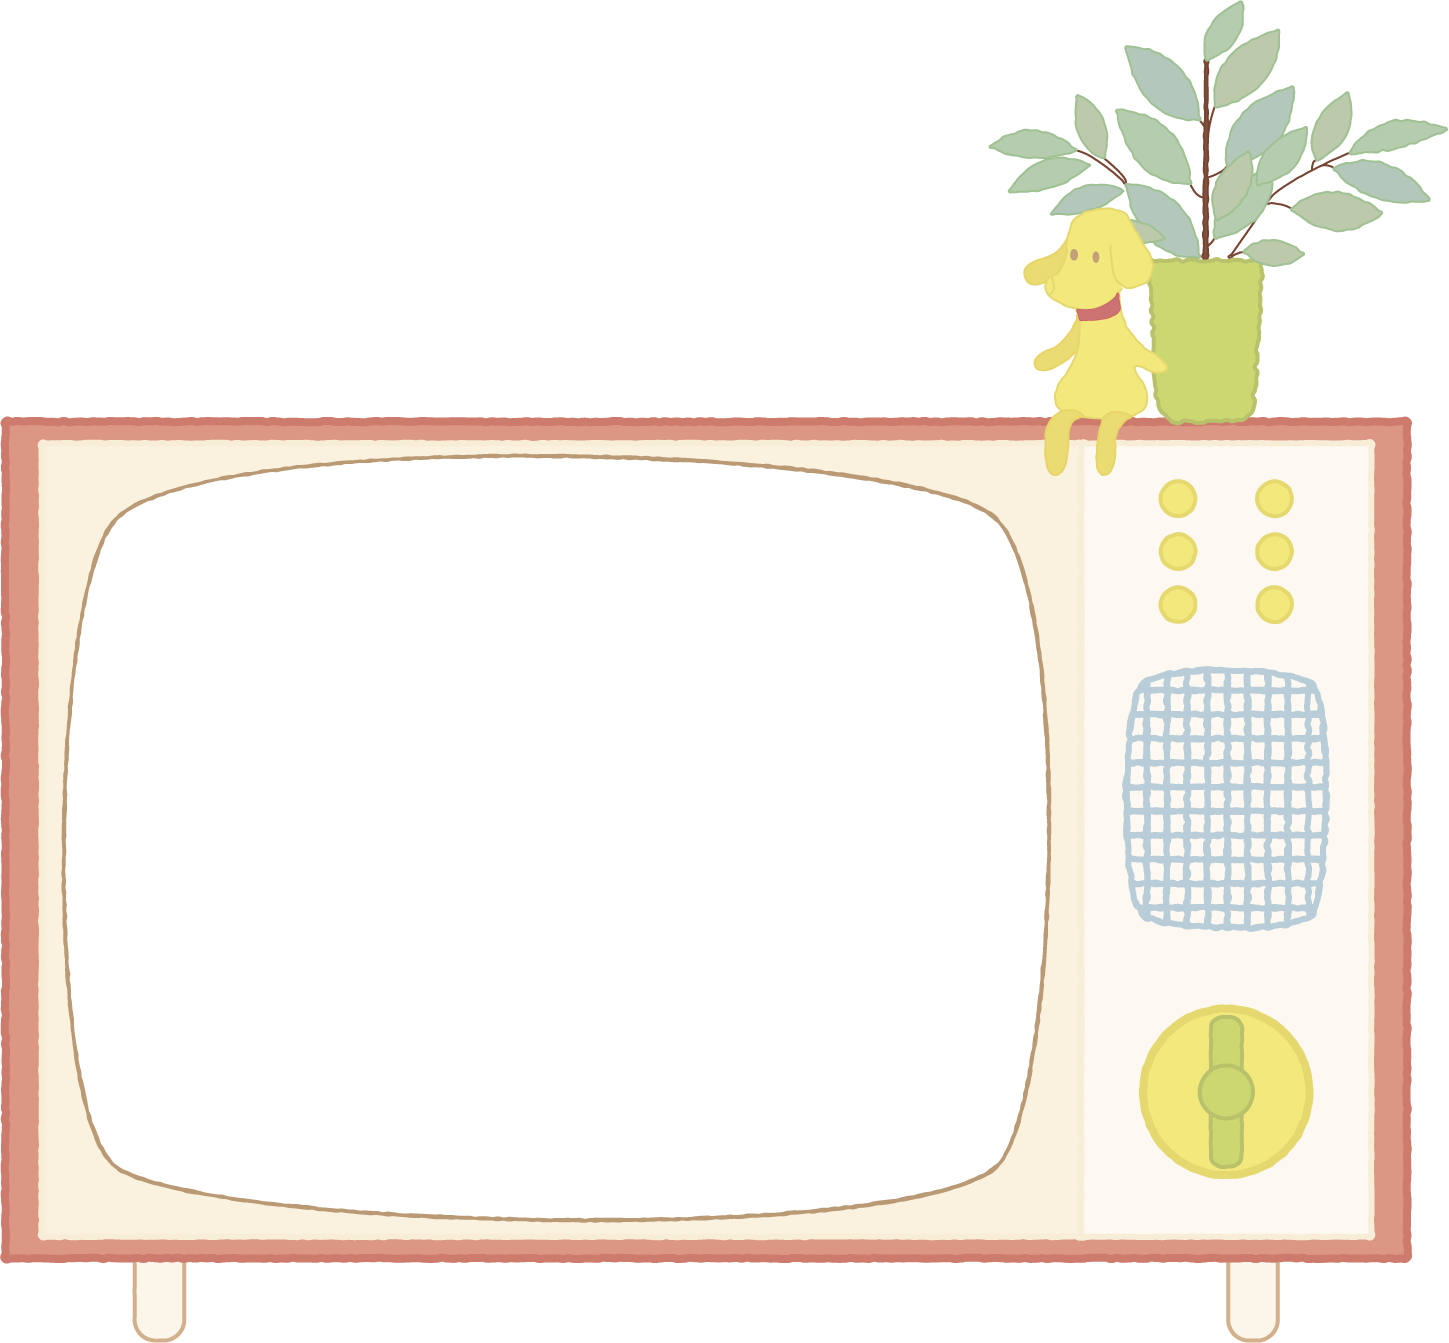
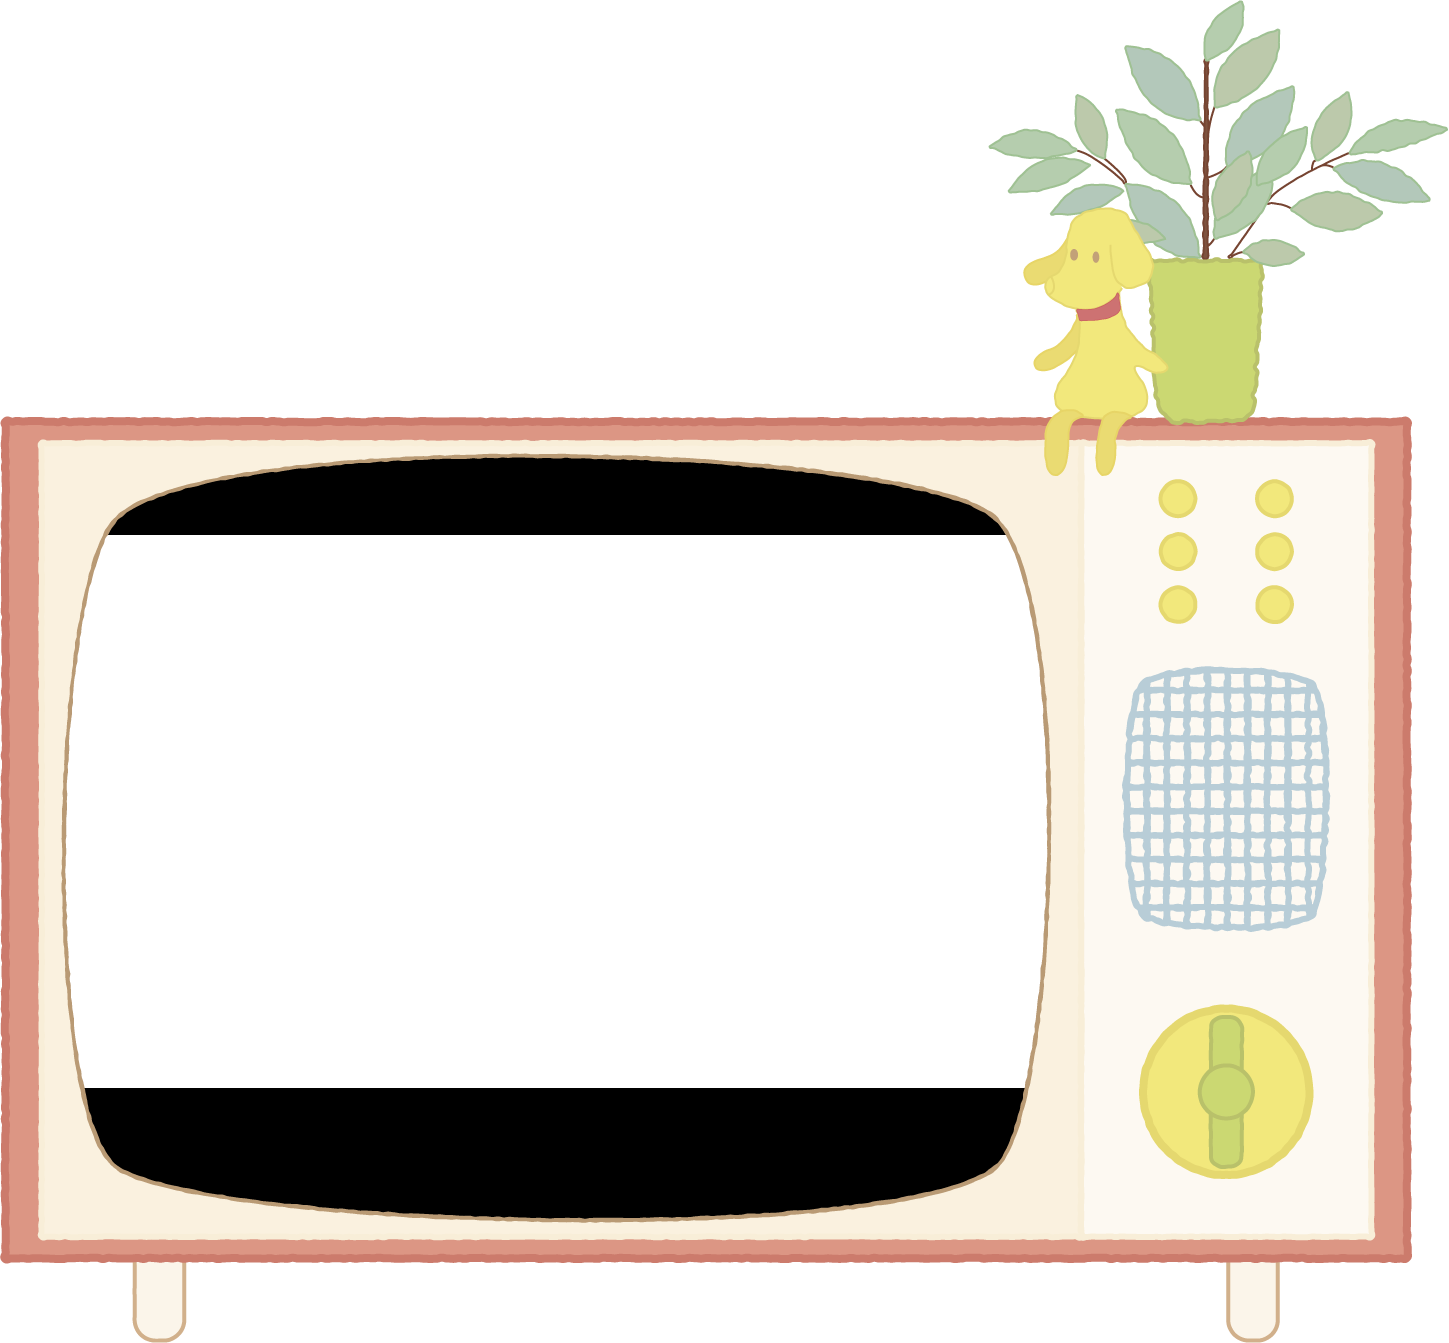
update

Changed region(s): [[0.0621, 0.7937, 0.7143, 0.9159], [0.0621, 0.3358, 0.6832, 0.3969]]

diff --git a/script/ElderlyObject.js b/script/ElderlyObject.js
@@ -51,7 +51,7 @@ class Tv extends Video {
         this.y = -0.049;
         this.url = "image/building/elderly/tv.png";
         this.zoomIn = 2.6;
-        this.zoomInPos = [83.4, -73.35]
+        this.zoomInPos = [83.4, -70]
         this.fadeText = "點擊播放影片";
         this.spriteHeight = 10;
         this.videoList = [function () { return new ElderlyAction_Hair(this.manager, this) }.bind(this)];
@@ -60,7 +60,7 @@ class Tv extends Video {
             frameUrl: "image/video/tv.png",
             frameScale: 0.5,
             uiHitArea: 79, uiScale: 0.25,
-            standard: -270, height: 235, space: 42
+            standard: -270, height: 230, space: 42
         }
     }
     onClickResize() {
@@ -105,7 +105,7 @@ class Tv extends Video {
         this.page.children.player.move(this._x, this.sprite.width);
         this.video = this.videoList[this.random]();
         this.video.setup();
-        this.video.container.position.set(-83, 73);
+        this.video.container.position.set(-83.5, 70);
         this.drawUI();
         this.fullButton.position.set(-this.uiOptions.standard - 160, this.uiOptions.height);
         if (!this.cancel) { this.drawCancel(); }

diff --git a/script/Action.js b/script/Action.js
@@ -491,10 +491,11 @@ export class ActionGoodjob extends ActionObject {
 }
 
 export class ActionStart extends ActionUI {
-    constructor(manager, action, text) {
+    constructor(manager, action, text, uiUrl = "image/video/actionUI_sprites.json") {
         super(manager, action);
         this.name = "ActionStart";
         this.isNotStart = true;
+        this.uiUrl = uiUrl;
         this.draw = function () {
             this.sprite = createSprite(
                 this.manager.resources["image/video/actionUI_sprites.json"].spritesheet.textures["know.png"]
@@ -529,7 +530,7 @@ export class ActionStart extends ActionUI {
                     this.action.removeChild(this.action.children.video.bg);
                     this.action.children.video.drawBg();
                     this.action.obj.playButton.texture =
-                        this.manager.resources["image/video/actionUI_sprites.json"].spritesheet.textures["pause.png"];
+                        this.manager.resources[this.uiUrl].spritesheet.textures["pause.png"];
                 }.bind(this)
             });
         }

diff --git a/script/KnowObject.js b/script/KnowObject.js
@@ -349,7 +349,6 @@ class Book extends linkObject {
     clickEvent() {
         this.blink.outerStrength = 0;
         this.sprite.interactive = false;
-        this.zoom();
         this.page.children.player.move(this._x, this.sprite.width);
         this.page.isZoomIn = true;
         this.isClick = true;
@@ -359,13 +358,7 @@ class Book extends linkObject {
         this.book = this.drawBook();
     }
     cancelEvent() {
-        /* let tl = gsap.timeline({
-            onComplete: function () {
-                this.sprite.interactive = true;
-            }.bind(this)
-        });
-        tl.to(this.page.container.scale, { duration: 0.5, x: this.scale, y: this.scale });
-        tl.to(this.page.container, { duration: 0.5, x: -this._x / 2, y: 0 }, 0); */
+        this.sprite.interactive = true;
         this.isClick = false;
         this.page.isZoomIn = false;
         this.cancel.visible = false;

diff --git a/script/ElderlyAction.js b/script/ElderlyAction.js
@@ -77,12 +77,12 @@ export class ElderlyAction_Hair extends Action.ActionPage {
         super(manager, obj);
         this.offset = 50;
         this.isPlayGame = false;
-        this.videoScale = 0.255;
+        this.videoScale = 0.256;
         this.videoData = videoData.elderly[3];
         this.children = {
             "sound": new Action.ActionSound(this.manager, this, this.videoData.name, this.videoData.soundUrl),
             "video": new Elderly_Hair_Video(this.manager, this, this.videoData.url),
-            "ui": new Action.ActionStart(this.manager, this, this.videoData.startText),
+            "ui": new Action.ActionStart(this.manager, this, this.videoData.startText, "image/video/elderly/elderly_video_sprites.json"),
             "logo": new Action.LogoVideo(this.manager, this)
         }
         this.end = new Action.ActionEnd(this.manager, this, this.videoData.endText)
